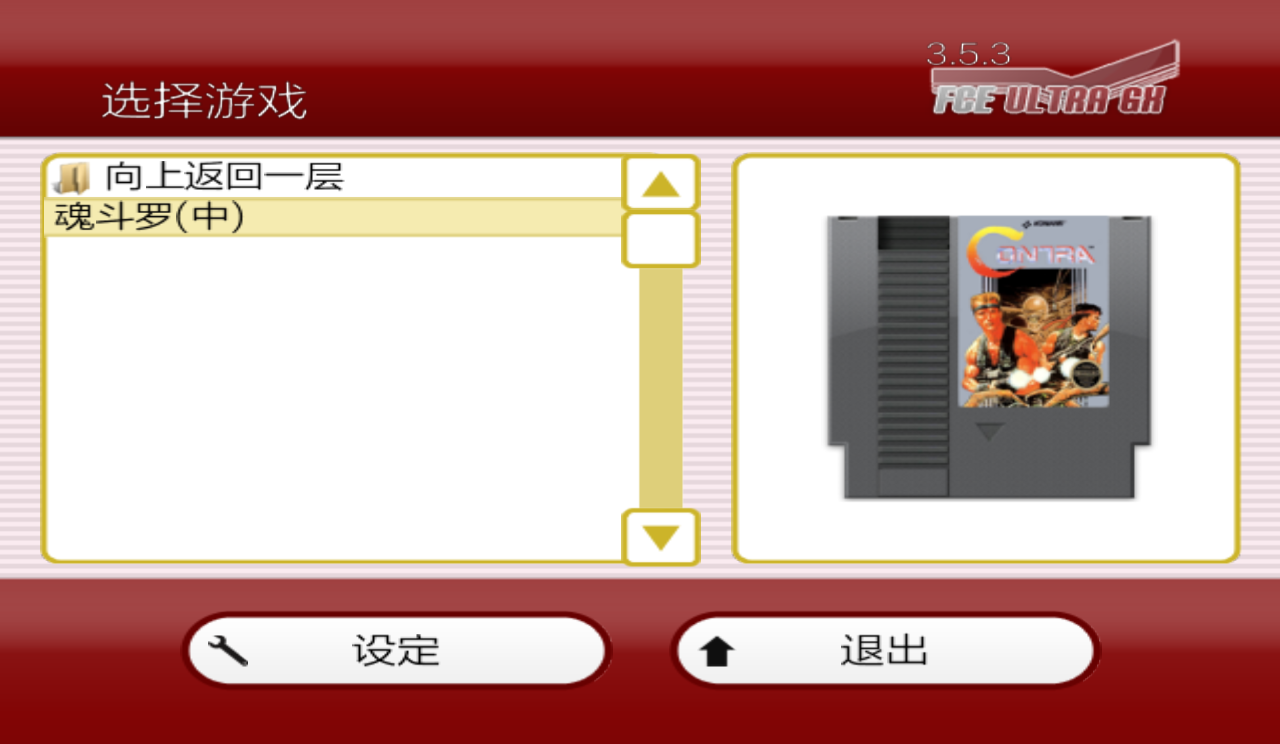
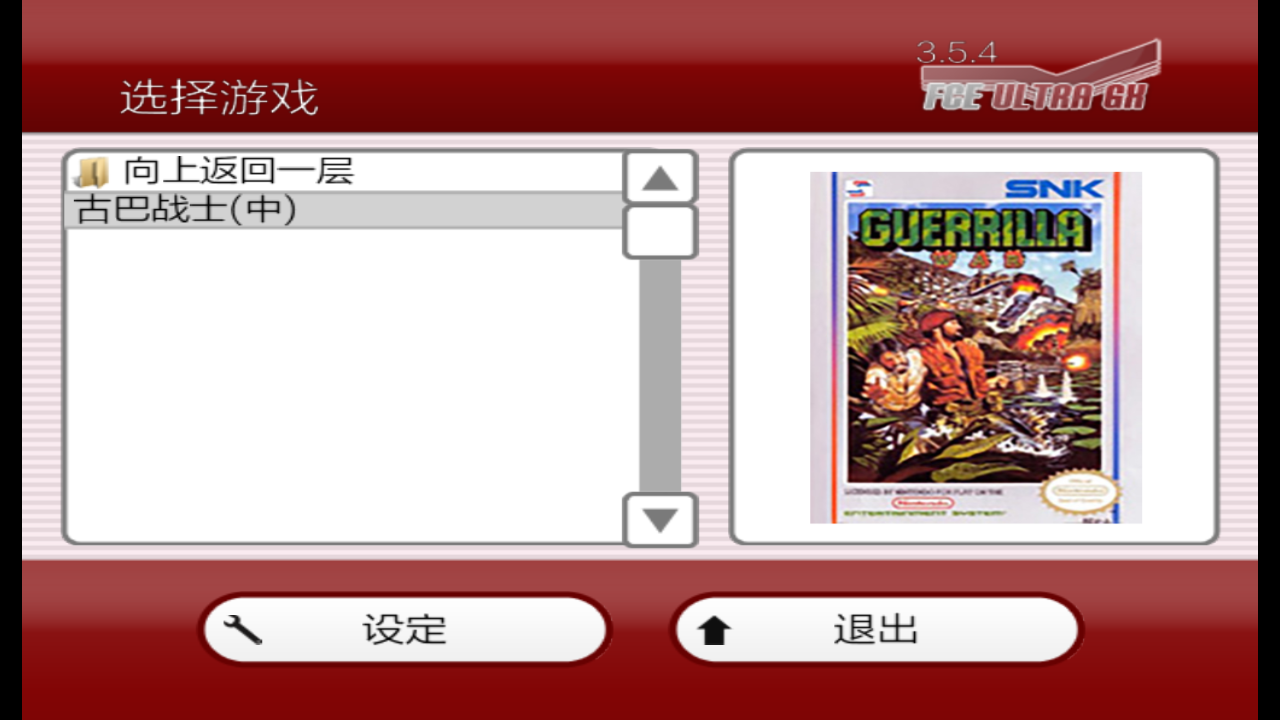
doc review

diff --git a/doc/README-cn.md b/doc/README-cn.md
@@ -1,0 +1,97 @@
+# FCE Ultra GX 简体中文版简介
+
+
+![官方版本](./fceugx.png)
+
+FCE Ultra GX 是 Wii 上面著名的任天堂红白机模拟器，目前最新的[官方版本](http://wiibrew.org/wiki/FCE_Ultra_GX)为 3.5.4，默认界面语言为英文。
+
+R-Sam 在开源项目的基础上制作了它的简体中文版本。在[下载页面](https://github.com/duxiuxing/fceugx-cn/releases)中，简体中文版的资源主要包含以下几个部分：
+
+1. APP 的本体：FCEUltraGX-v3.5.4.cn.zip
+2. 背景音乐：bg_music.ogg
+3. 导入游戏：Sample-FCEUltraGX-cn.zip
+4. APP 的快捷方式：Wii 频道
+
+
+## FCEUltraGX-v3.5.4.cn.zip
+
+这个包是简体中文版 APP 的本体。
+
+使用步骤：
+
+第 1 步，解压到 SD 卡或者 USB 设备的根目录。以 SD 卡为例，正确解压后，目录结构如下：
+
+```
+💾SD 卡:
+ ┣ 📂apps
+ ┃  ┗ 📂fceugx
+ ┃     ┣ 📜boot.dol
+ ┃     ┣ 📜icon.png
+ ┃     ┗ 📜meta.xml
+ ┗ 📂fceugx
+```
+
+- apps > fceugx 文件夹，简称 APP 文件夹。APP 文件夹里面包含了 APP 的可执行文件（boot.dol）、图标文件（icon.png）和描述文件（meta.xml）。
+- 根目录的 fceugx 文件夹，简称数据文件夹。数据文件夹里面的内容，在后面导入游戏的部分有进一步说明。
+
+第 2 步，在 HBC 中启动 APP：
+
+![简体中文版](./fceugx-cn.png)
+
+
+## bg_music.ogg
+
+这个是 APP 的背景音乐文件。把它拷贝到 APP 文件夹即可：
+
+```
+💾SD 卡:
+ ┗ 📂apps
+    ┗ 📂fceugx
+       ┗ 📜bg_music.ogg
+```
+
+有没有背景音乐文件并不影响使用 APP 玩游戏，属于锦上添花的功能。如果你想把 APP 的背景音乐换成自己喜欢的音乐或者歌曲，需要注意以下两点：
+
+1. 背景音乐文件的格式和文件名都是固定的，不能更改；
+2. APP 加载背景音乐文件的时候会占用内存，因此音乐文件的体积不宜太大。
+
+
+## Sample-FCEUltraGX-cn.zip
+
+在这个包里面，我按照 APP 数据文件夹的目录结构，放了一个红白机游戏和它对应的三种预览图：
+
+```
+💾SD 卡:
+ ┗ 📂fceugx
+    ┣ 📂artwork
+    ┃  ┗ 📜古巴战士(中).png
+    ┣ 📂covers
+    ┃  ┗ 📜古巴战士(中).png
+    ┣ 📂roms
+    ┃  ┗ 📜古巴战士(中).nes
+    ┗ 📂screenshots
+       ┗ 📜古巴战士(中).png
+```
+
+- 游戏的 ROM 文件放在 roms 文件夹，支持 .nes 和 .zip 两种格式；
+- .png 格式的预览图不是必须的，有没有预览图并不影响使用 APP 玩游戏；
+- 图片和 ROM 的文件名必须一样才能匹配，图片的长宽不得超过 640x480。
+
+按 Wii 遥控器手柄的 [+] 键可以切换预览图类型：
+
+artwork 文件夹是插图目录，下图为游戏插图展示：
+
+![插图](./preview-image-artwork.png)
+
+covers 文件夹是封面目录，下图为游戏封面展示：
+
+![封面](./preview-image-cover.png)
+
+screenshots 文件夹是截图目录，下图为游戏截图展示：
+
+![截图](./preview-image-screenshot.png)
+
+
+## Wii 频道
+
+详情见[《FCE Ultra GX 频道一览》](../channel/doc/README.md)。

diff --git a/channel/doc/README.md b/channel/doc/README.md
@@ -1,9 +1,14 @@
 # FCE Ultra GX 频道一览
 
 
-## 一、FCEUltraGX-Channel-Installer.zip
+资源里的这些频道，使用的图片素材各有不同，但作用都是一样的，根据个人喜好，选择一个安装就好。
 
-官方提供的频道安装器是一个独立 APP。
+这些频道只是 APP 的快捷方式，并不包含 APP 的本体，点开频道之后，程序会依次在 SD 卡和 USB 设备的 apps 文件夹里找 APP 的本体，找到就启动 APP，找不到就返回。
+
+
+## FCEUltraGX-Channel-Installer.zip
+
+这个包是官方提供的频道安装器，它是一个 APP。
 
 使用步骤：
 
@@ -28,20 +33,49 @@
 | ![](./FCEUltraGX-Channel.icon.png) | ![](./FCEUltraGX-Channel.banner.png) |
 
 
-## 二、FCEU GX [FCEU].wad
+## .wad 格式的频道安装文件
 
-这个频道安装文件使用的素材来自于官方提供的频道，以下为安装后的界面效果：
+安装步骤：
+
+第 1 步，拷贝到 SD 卡或者 USB 设备的 wad 文件夹里。以 SD 卡为例：
+
+```
+💾SD 卡:
+ ┗ 📂wad
+    ┣ 📜FCEU GX [FCEU].wad
+    ┣ 📜FCE Ultra GX [FCEU].wad
+    ┗ 📜Nintendo [FCEU].wad
+```
+
+或者
+
+```
+💾SD 卡:
+ ┗ 📂wad
+    ┗ 📂FCE Ultra GX
+       ┣ 📜FCEU GX [FCEU].wad
+       ┣ 📜FCE Ultra GX [FCEU].wad
+       ┗ 📜Nintendo [FCEU].wad
+```
+
+都可以。
+
+第 2 步，在 Wii 上面完成 .wad 文件的安装。能够用来安装 .wad 文件的 APP 多了去了，下图是常用的几款：
+
+![](./wad-manager-apps.png)
+
+再次强调，资源里的这些频道，只是使用的图片素材各有不同，作用都是一样的，根据个人喜好，选择一个安装就好。以下为各个 .wad 文件安装后的频道界面效果：
+
+### FCEU GX [FCEU].wad
 
 ![](./FCEU-GX-Channel.png)
 
 
-## 三、FCE Ultra GX [FCEU].wad
+### FCE Ultra GX [FCEU].wad
 
 ![](./FCE-Ultra-GX-Channel.png)
 
 
-## 四、Nintendo [FCEU].wad
+### Nintendo [FCEU].wad
 
 ![](./Nintendo-Channel.png)
-
-

diff --git a/doc/README.md b/doc/README.md
@@ -1,9 +1,9 @@
-# FCE Ultra GX 中文版简介
+# FCE Ultra GX 简体中文版简介
 
 
 ![中文版界面](./fceugx-cn.png)
 
-FCE Ultra GX 是 Wii 上面著名的红白机模拟器，[官方版本](http://wiibrew.org/wiki/FCE_Ultra_GX)为英文，本分支为其中文版的开发分支。
+FCE Ultra GX 是 Wii 上面著名的任天堂红白机模拟器，[官方版本](http://wiibrew.org/wiki/FCE_Ultra_GX)为英文，本分支为其中文版的开发分支。
 
 > 中文版下载页面：<https://github.com/duxiuxing/fceugx-cn/releases>
 

diff --git a/doc/release-note.md b/doc/release-note.md
@@ -1,4 +1,4 @@
-# 3.5.3版 - 2024年2月3日
+# 3.5.4版 - 2024年3月30日
 
 FCE Ultra GX 是 Wii 上面著名的红白机模拟器，[官方版本](http://wiibrew.org/wiki/FCE_Ultra_GX)为英文，本页面为其中文版的下载页面。
 
